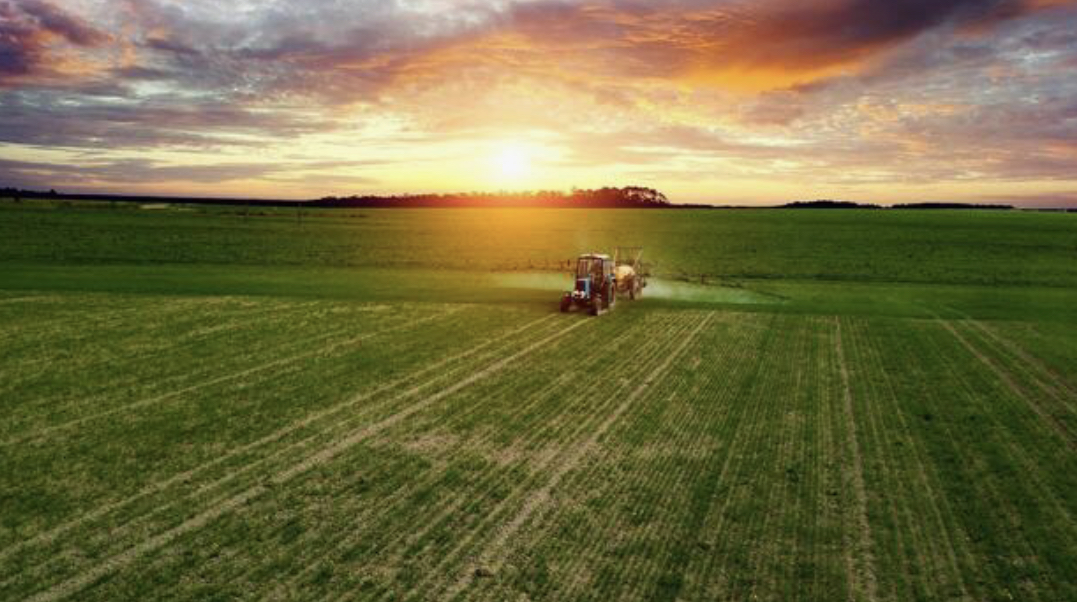
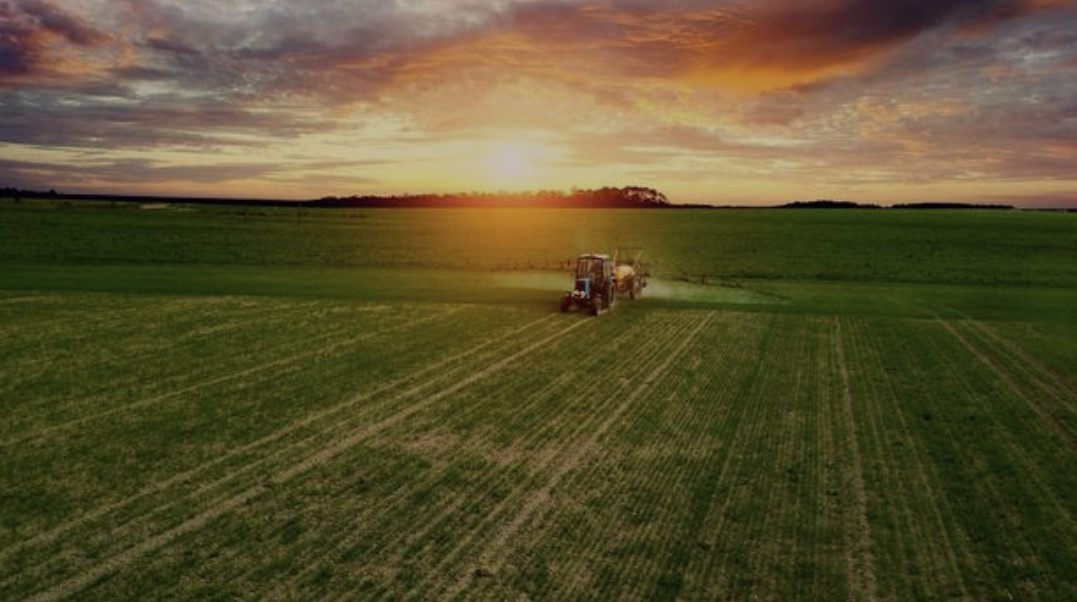
improved the landing page's UI/UX

diff --git a/frontend/src/pages/LandingPage.jsx b/frontend/src/pages/LandingPage.jsx
@@ -13,21 +13,21 @@ const LandingPage = ({ onNavigate }) => (
   <div className="bg-white font-sans">
     {/* Header */}
     <header className="absolute top-0 left-0 right-0 z-10 bg-transparent">
-      <nav className="max-w-7xl mx-auto px-4 sm:px-6 lg:px-8 py-4">
+      <nav className="max-w-7xl mx-auto px-4 sm:px-6 lg:px-8 py-4 nav-bar">
         <div className="flex justify-between items-center">
           <div className="flex items-center space-x-2">
             <img src={logo} alt="Farm Konnect Logo" className="h-12 w-12 rounded-md" />
             <span className="text-2xl font-bold text-white">Farm Konnect</span>
           </div>
           <div className="hidden md:flex items-center space-x-8 text-white">
-            <a href="#about" className="hover:text-green-200 transition">About</a>
-            <a href="#features" className="hover:text-green-200 transition">Features</a>
-            <a href="#contact" className="hover:text-green-200 transition">Contact</a>
+            <a href="#about" className="hover:text-green-300 transition text-lg">About</a>
+            <a href="#features" className="hover:text-green-300 transition  text-lg">Features</a>
+            <a href="#contact" className="hover:text-green-300 transition  text-lg">Contact</a>
           </div>
           <div className="flex items-center space-x-4">
             <button
               onClick={() => onNavigate('login')}
-              className="text-white font-semibold hover:text-green-200 transition"
+              className="text-white font-semibold hover:text-green-300 transition"
             >
               Login
             </button>
@@ -46,10 +46,10 @@ const LandingPage = ({ onNavigate }) => (
       {/* Hero Section */}
       <section
         className="relative h-screen flex items-center justify-center text-center text-white hero-section"
-        style={{ backgroundImage: `url(${heroBackground})` }}
+        style={{ backgroundImage: `url(${heroBackground})`,  }}
       >
         <div className="z-10 max-w-3xl mx-auto px-4">
-          <h1 className="text-5xl md:text-7xl font-extrabold mb-4 leading-tight">
+          <h1 className="text-5xl md:text-6xl font-bold mb-4 leading-tight">
             Connecting Landowners and Farmers
           </h1>
           <p className="text-lg md:text-xl text-green-100 mb-8">
@@ -57,24 +57,25 @@ const LandingPage = ({ onNavigate }) => (
           </p>
           <button 
             onClick={() => onNavigate('register')}
-            className="bg-green-500 text-white px-8 py-4 rounded-full font-bold text-lg hover:bg-green-600 transition transform hover:scale-105"
+            className="bg-green-600 text-white px-8 py-4 rounded-full font-bold text-lg hover:bg-green-700 transition transform hover:scale-105"
           >
             Get Started Today
           </button>
         </div>
       </section>
+      
 
       {/* Introduction Section */}
       <section id="about" className="py-20">
         <div className="max-w-6xl mx-auto px-4 grid md:grid-cols-2 gap-12 items-center">
-          <div className="bg-white rounded-lg p-8 shadow-lg transform hover:scale-105 transition-transform duration-300">
+          <div className="bg-gray-200 rounded-lg p-8 shadow-lg transform hover:scale-105 transition-transform duration-300">
             <div className="flex items-center mb-4">
-              <div className="p-3 bg-green-100 rounded-full mr-4">
+              <div className="p-3 bg-white rounded-full mr-4">
                 <UserCheck size={32} className="text-green-600" />
               </div>
-              <h3 className="text-3xl font-bold text-gray-800">For Landowners</h3>
+              <h3 className="text-3xl font-bold text-gray-600">For Landowners</h3>
             </div>
-            <p className="text-gray-600 mb-6">
+            <p className="text-gray-500 mb-6">
               Turn your idle land into a profitable asset. Connect with verified, passionate farmers looking for their next opportunity.
             </p>
             <button
@@ -84,14 +85,14 @@ const LandingPage = ({ onNavigate }) => (
               List Your Land <ChevronRight size={20} className="ml-1" />
             </button>
           </div>
-          <div className="bg-white rounded-lg p-8 shadow-lg transform hover:scale-105 transition-transform duration-300">
+          <div className="bg-gray-200 rounded-lg p-8 shadow-lg transform hover:scale-105 transition-transform duration-300">
             <div className="flex items-center mb-4">
-              <div className="p-3 bg-green-100 rounded-full mr-4">
+              <div className="p-3 bg-white rounded-full mr-4">
                 <Leaf size={32} className="text-green-600" />
               </div>
-              <h3 className="text-3xl font-bold text-gray-800">For Farmers</h3>
+              <h3 className="text-3xl font-bold text-gray-600">For Farmers</h3>
             </div>
-            <p className="text-gray-600 mb-6">
+            <p className="text-gray-500 mb-6">
               Access a wide range of farmland to grow your business. Find the perfect plot that meets your needs and budget.
             </p>
             <button
@@ -112,17 +113,17 @@ const LandingPage = ({ onNavigate }) => (
           <h2 className="text-4xl font-bold text-gray-800 mb-12">Simple Steps to Get Started</h2>
           <div className="grid md:grid-cols-3 gap-12">
             <div className="flex flex-col items-center">
-              <div className="w-24 h-24 bg-green-500 text-white rounded-full flex items-center justify-center text-4xl font-bold mb-4">1</div>
+              <div className="w-24 h-24 bg-green-600 text-gray-100 rounded-full flex items-center justify-center text-4xl font-bold mb-4">1</div>
               <h3 className="text-2xl font-bold mb-2">Create a Profile</h3>
               <p className="text-gray-600">Sign up as a landowner or farmer and complete your profile to get verified.</p>
             </div>
             <div className="flex flex-col items-center">
-              <div className="w-24 h-24 bg-green-500 text-white rounded-full flex items-center justify-center text-4xl font-bold mb-4">2</div>
+              <div className="w-24 h-24 bg-green-600 text-gray-100 rounded-full flex items-center justify-center text-4xl font-bold mb-4">2</div>
               <h3 className="text-2xl font-bold mb-2">Discover Opportunities</h3>
               <p className="text-gray-600">Landowners can list their property, while farmers can search for available land.</p>
             </div>
             <div className="flex flex-col items-center">
-              <div className="w-24 h-24 bg-green-500 text-white rounded-full flex items-center justify-center text-4xl font-bold mb-4">3</div>
+              <div className="w-24 h-24 bg-green-600 text-gray-100 rounded-full flex items-center justify-center text-4xl font-bold mb-4">3</div>
               <h3 className="text-2xl font-bold mb-2">Connect & Grow</h3>
               <p className="text-gray-600">Use our secure messaging to connect, sign agreements, and start your partnership.</p>
             </div>

diff --git a/frontend/src/components/Testimonials.jsx b/frontend/src/components/Testimonials.jsx
@@ -3,28 +3,28 @@ import React from 'react';
 const testimonials = [
   {
     quote: "Farm Konnect helped me find the perfect plot for my organic farming venture. The process was seamless and the landowner was a pleasure to work with.",
-    author: "John Doe",
+    author: "Samuel Olawale",
     title: "Organic Farmer",
-    avatar: "https://randomuser.me/api/portraits/men/32.jpg",
+    avatar: "https://randomuser.me/api/portraits/men/30.jpg",
   },
   {
     quote: "I had acres of unused land. Thanks to Farm Konnect, I now have a steady income from a reliable farmer. It's a win-win!",
-    author: "Jane Smith",
+    author: "Joy Ebere",
     title: "Landowner",
-    avatar: "https://randomuser.me/api/portraits/women/44.jpg",
+    avatar: "https://randomuser.me/api/portraits/women/40.jpg",
   },
   {
     quote: "The platform is incredibly user-friendly. I listed my property and had inquiries within a week. Highly recommended!",
-    author: "Samuel Green",
+    author: "Abdullia Musa",
     title: "Landowner",
     avatar: "https://randomuser.me/api/portraits/men/56.jpg",
   },
 ];
 
 const Testimonials = () => (
-  <section className="py-20 bg-green-50">
+  <section className="py-20 bg-gray-100">
     <div className="max-w-6xl mx-auto px-4">
-      <h2 className="text-4xl font-bold text-center text-gray-800 mb-12">What Our Users Say</h2>
+      <h2 className="text-4xl font-bold text-center text-gray-700 mb-12">What Our Users Say</h2>
       <div className="grid md:grid-cols-1 lg:grid-cols-3 gap-8">
         {testimonials.map((testimonial, index) => (
           <div key={index} className="bg-white p-8 rounded-lg shadow-md">

diff --git a/frontend/src/components/Footer.jsx b/frontend/src/components/Footer.jsx
@@ -3,14 +3,14 @@ import React from 'react';
 const Footer = () => {
   const currentYear = new Date().getFullYear();
   return (
-    <footer style={{height:'20vh', padding: '2rem', textAlign: 'center', color: 'white', marginTop: '2rem' }}>
+    <footer className='bg-gray-200' style={{height:'20vh', padding: '2rem', textAlign: 'center', color: '#374e36ff' , marginTop: '2rem', }}>
       <div>
         &copy; {currentYear} Farm Konnect. All rights reserved.
       </div>
       <div style={{ marginTop: '0.5rem' }}>
-        <a href="/privacy" style={{ color: '#d4fad3ff', margin: '0 0.5rem', textDecoration: 'none' }} aria-label="Privacy Policy">Privacy Policy</a>
-        <a href="/terms" style={{ color: '#d4fad3ff', margin: '0 0.5rem', textDecoration: 'none' }} aria-label="Terms of Service">Terms of Service</a>
-        <a href="/contact" style={{ color: '#d4fad3ff', margin: '0 0.5rem', textDecoration: 'none' }} aria-label="Contact">Contact</a>
+        <a href="/privacy" className='text-green-600 hover:text-green-700' style={{ margin: '0 0.5rem', textDecoration: 'none', fontWeight:'bold' }} aria-label="Privacy Policy">Privacy Policy</a>
+        <a href="/terms" className='text-green-600 hover:text-green-700' style={{  margin: '0 0.5rem', textDecoration: 'none', fontWeight:'bold' }} aria-label="Terms of Service">Terms of Service</a>
+        <a href="/contact" className='text-green-600 hover:text-green-700' style={{ margin: '0 0.5rem', textDecoration: 'none', fontWeight:'bold' }} aria-label="Contact">Contact</a>
       </div>
     </footer>
   )};

diff --git a/frontend/src/components/Features.jsx b/frontend/src/components/Features.jsx
@@ -25,10 +25,10 @@ const features = [
 ];
 
 const Features = () => (
-  <section className="py-20 bg-gray-50">
+  <section id='features' className="py-20 bg-gray-100">
     <div className="max-w-6xl mx-auto px-4">
-      <h2 className="text-4xl font-bold text-center text-gray-800 mb-12">Why Choose Farm Konnect?</h2>
-      <div className="grid md:grid-cols-2 lg:grid-cols-4 gap-8">
+      <h2 className="text-4xl font-bold text-center text-gray-700 mb-12">Why Choose Farm Konnect?</h2>
+      <div className="grid md:grid-cols-2 lg:grid-cols-4 gap-10">
         {features.map((feature, index) => (
           <div key={index} className="bg-white p-8 rounded-lg shadow-md hover:shadow-xl transition-shadow duration-300">
             <div className="mb-4">{feature.icon}</div>

diff --git a/frontend/src/assets/LandingPage.css b/frontend/src/assets/LandingPage.css
@@ -1,3 +1,19 @@
+/* Google fonts - poppins */
+@import url('https://fonts.googleapis.com/css2?family=Poppins:ital,wght@0,100;0,200;0,300;0,400;0,500;0,600;0,700;0,800;0,900;1,100;1,200;1,300;1,400;1,500;1,600;1,700;1,800;1,900&display=swap');
+/* General Reset */
+
+* {
+    margin: 0px;
+    padding: 0;
+    box-sizing: border-box;
+}
+
+.nav-bar {
+  font-family: poppins, sans-serif;
+}
+
 .hero-section {
-  background: linear-gradient(rgba(0, 0, 0, 0.6), rgba(0, 0, 0, 0.6)), url('../assets/background.jpg') no-repeat center center/cover;
+  background: linear-gradient(rgba(0, 0, 0, 0.6), rgba(0, 0, 0, 0.6)), url('../assets/background.jpg');
+  background-size: cover;
+  background-position: center;
 }
